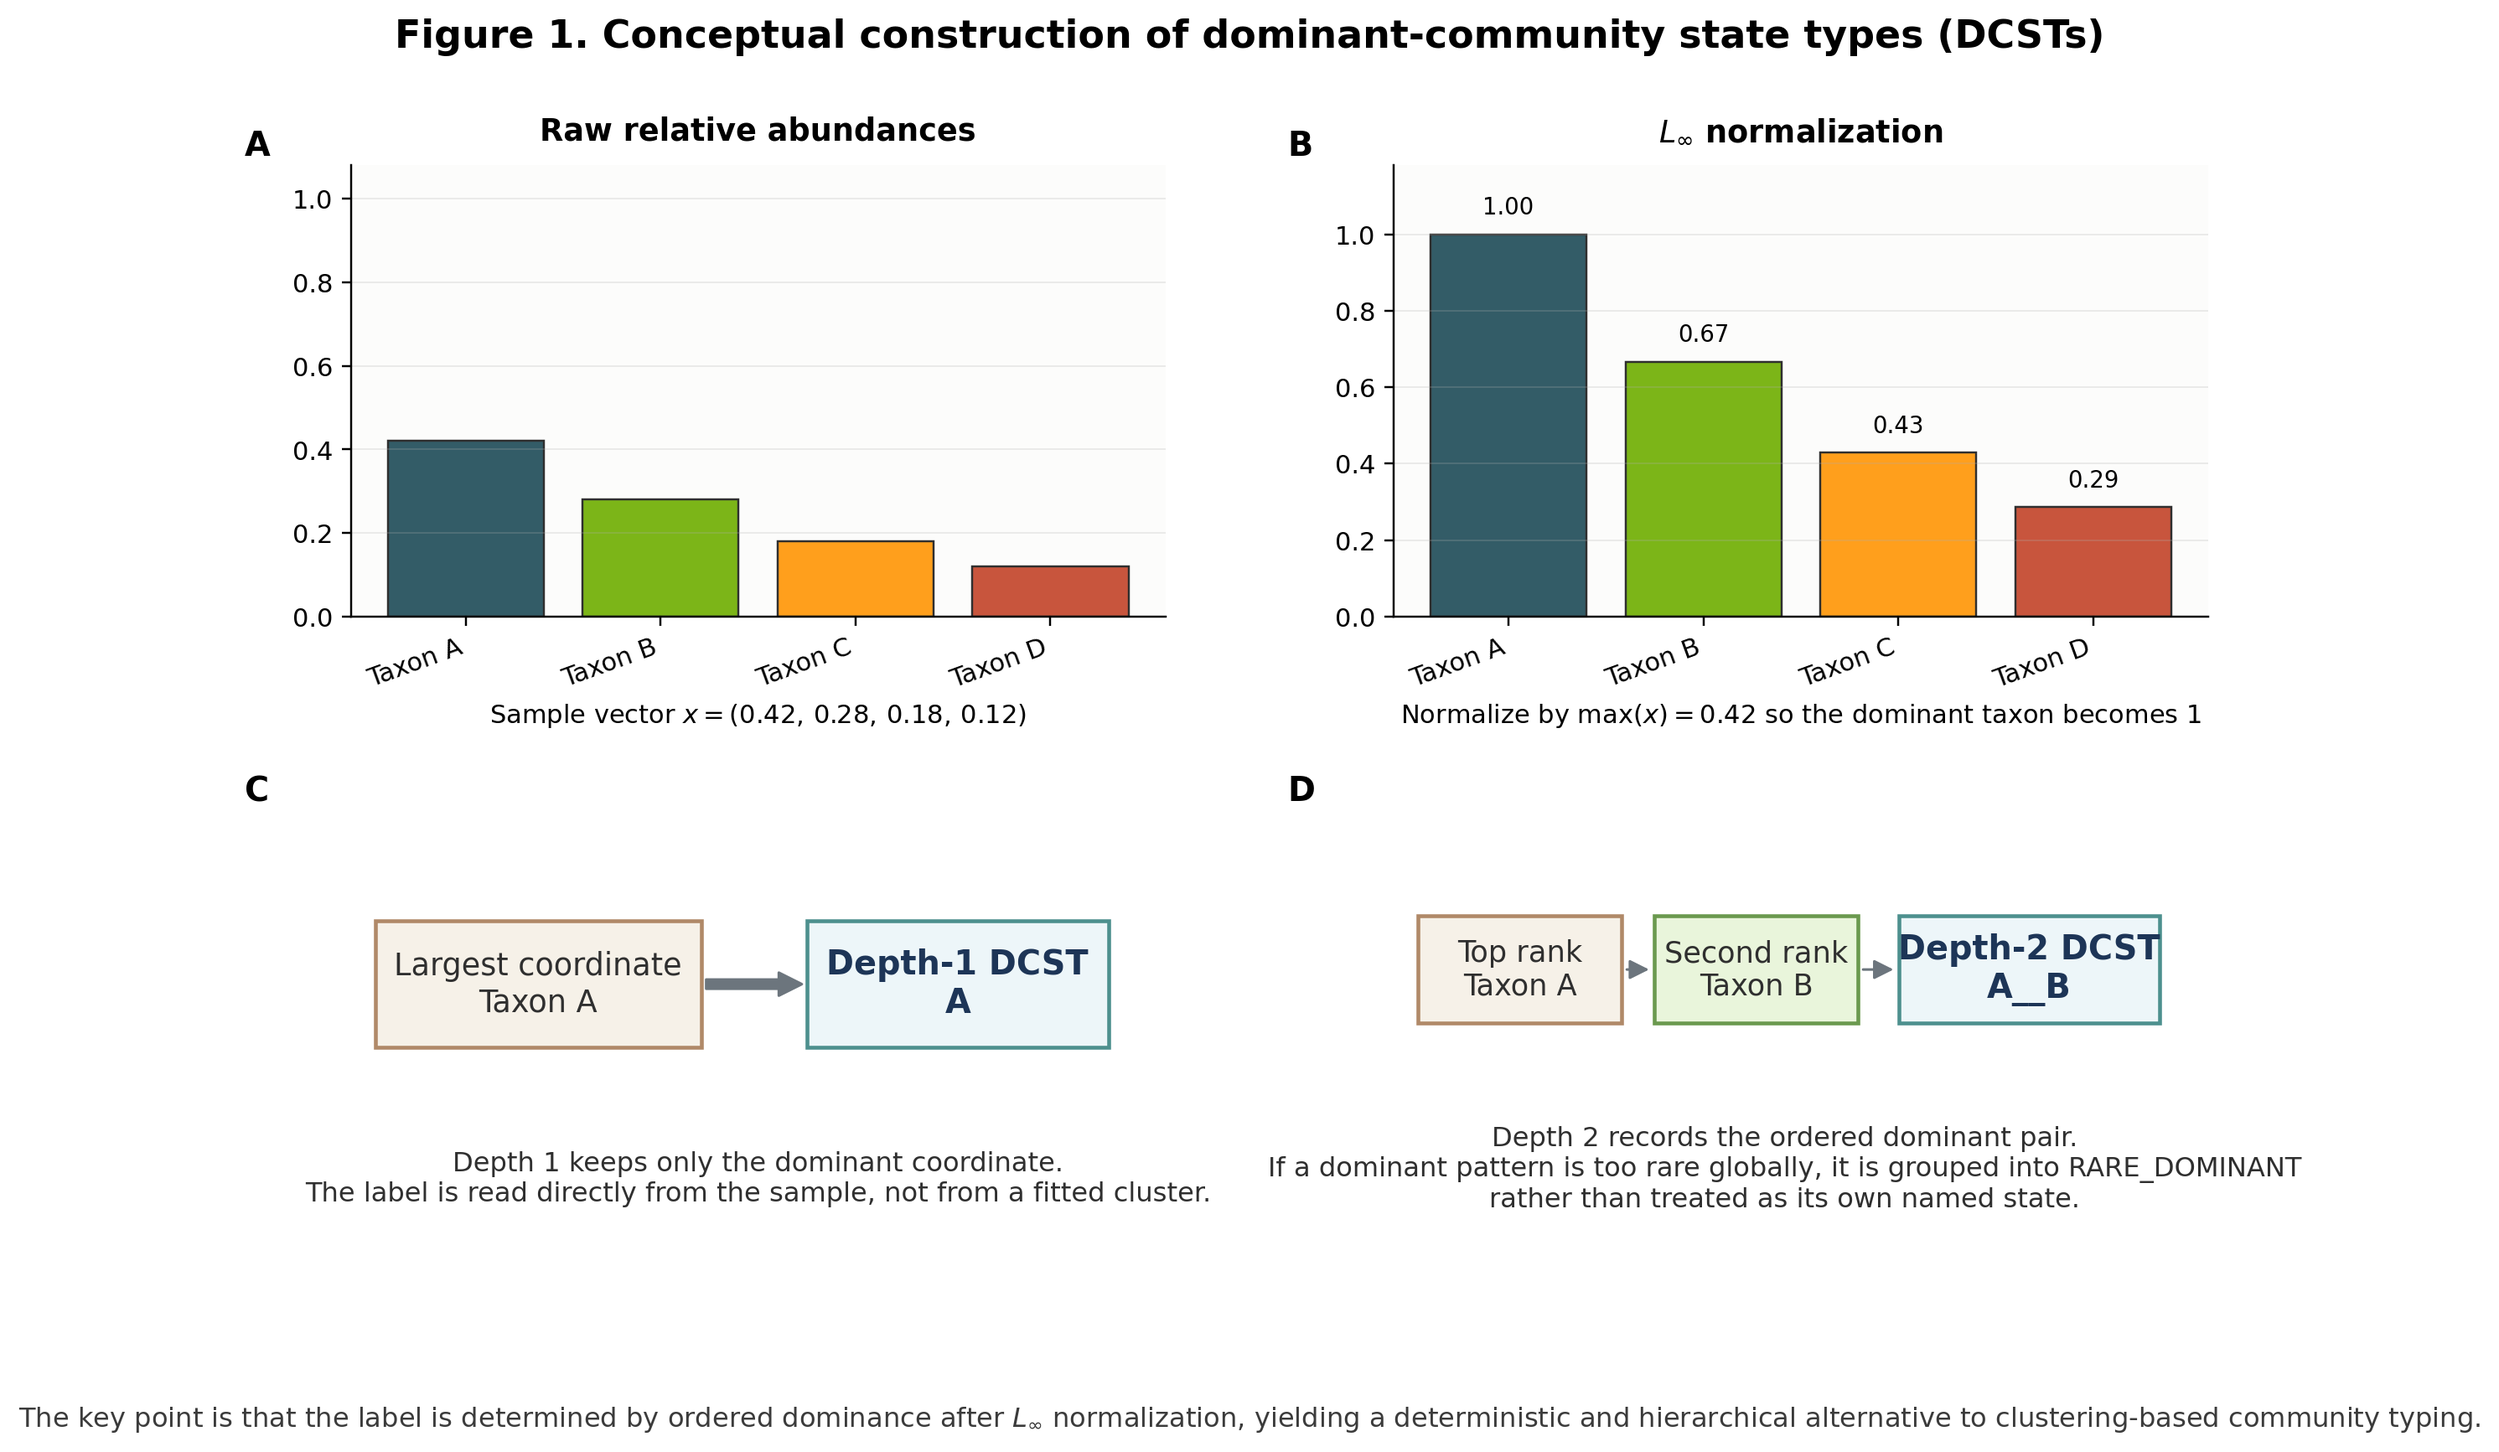
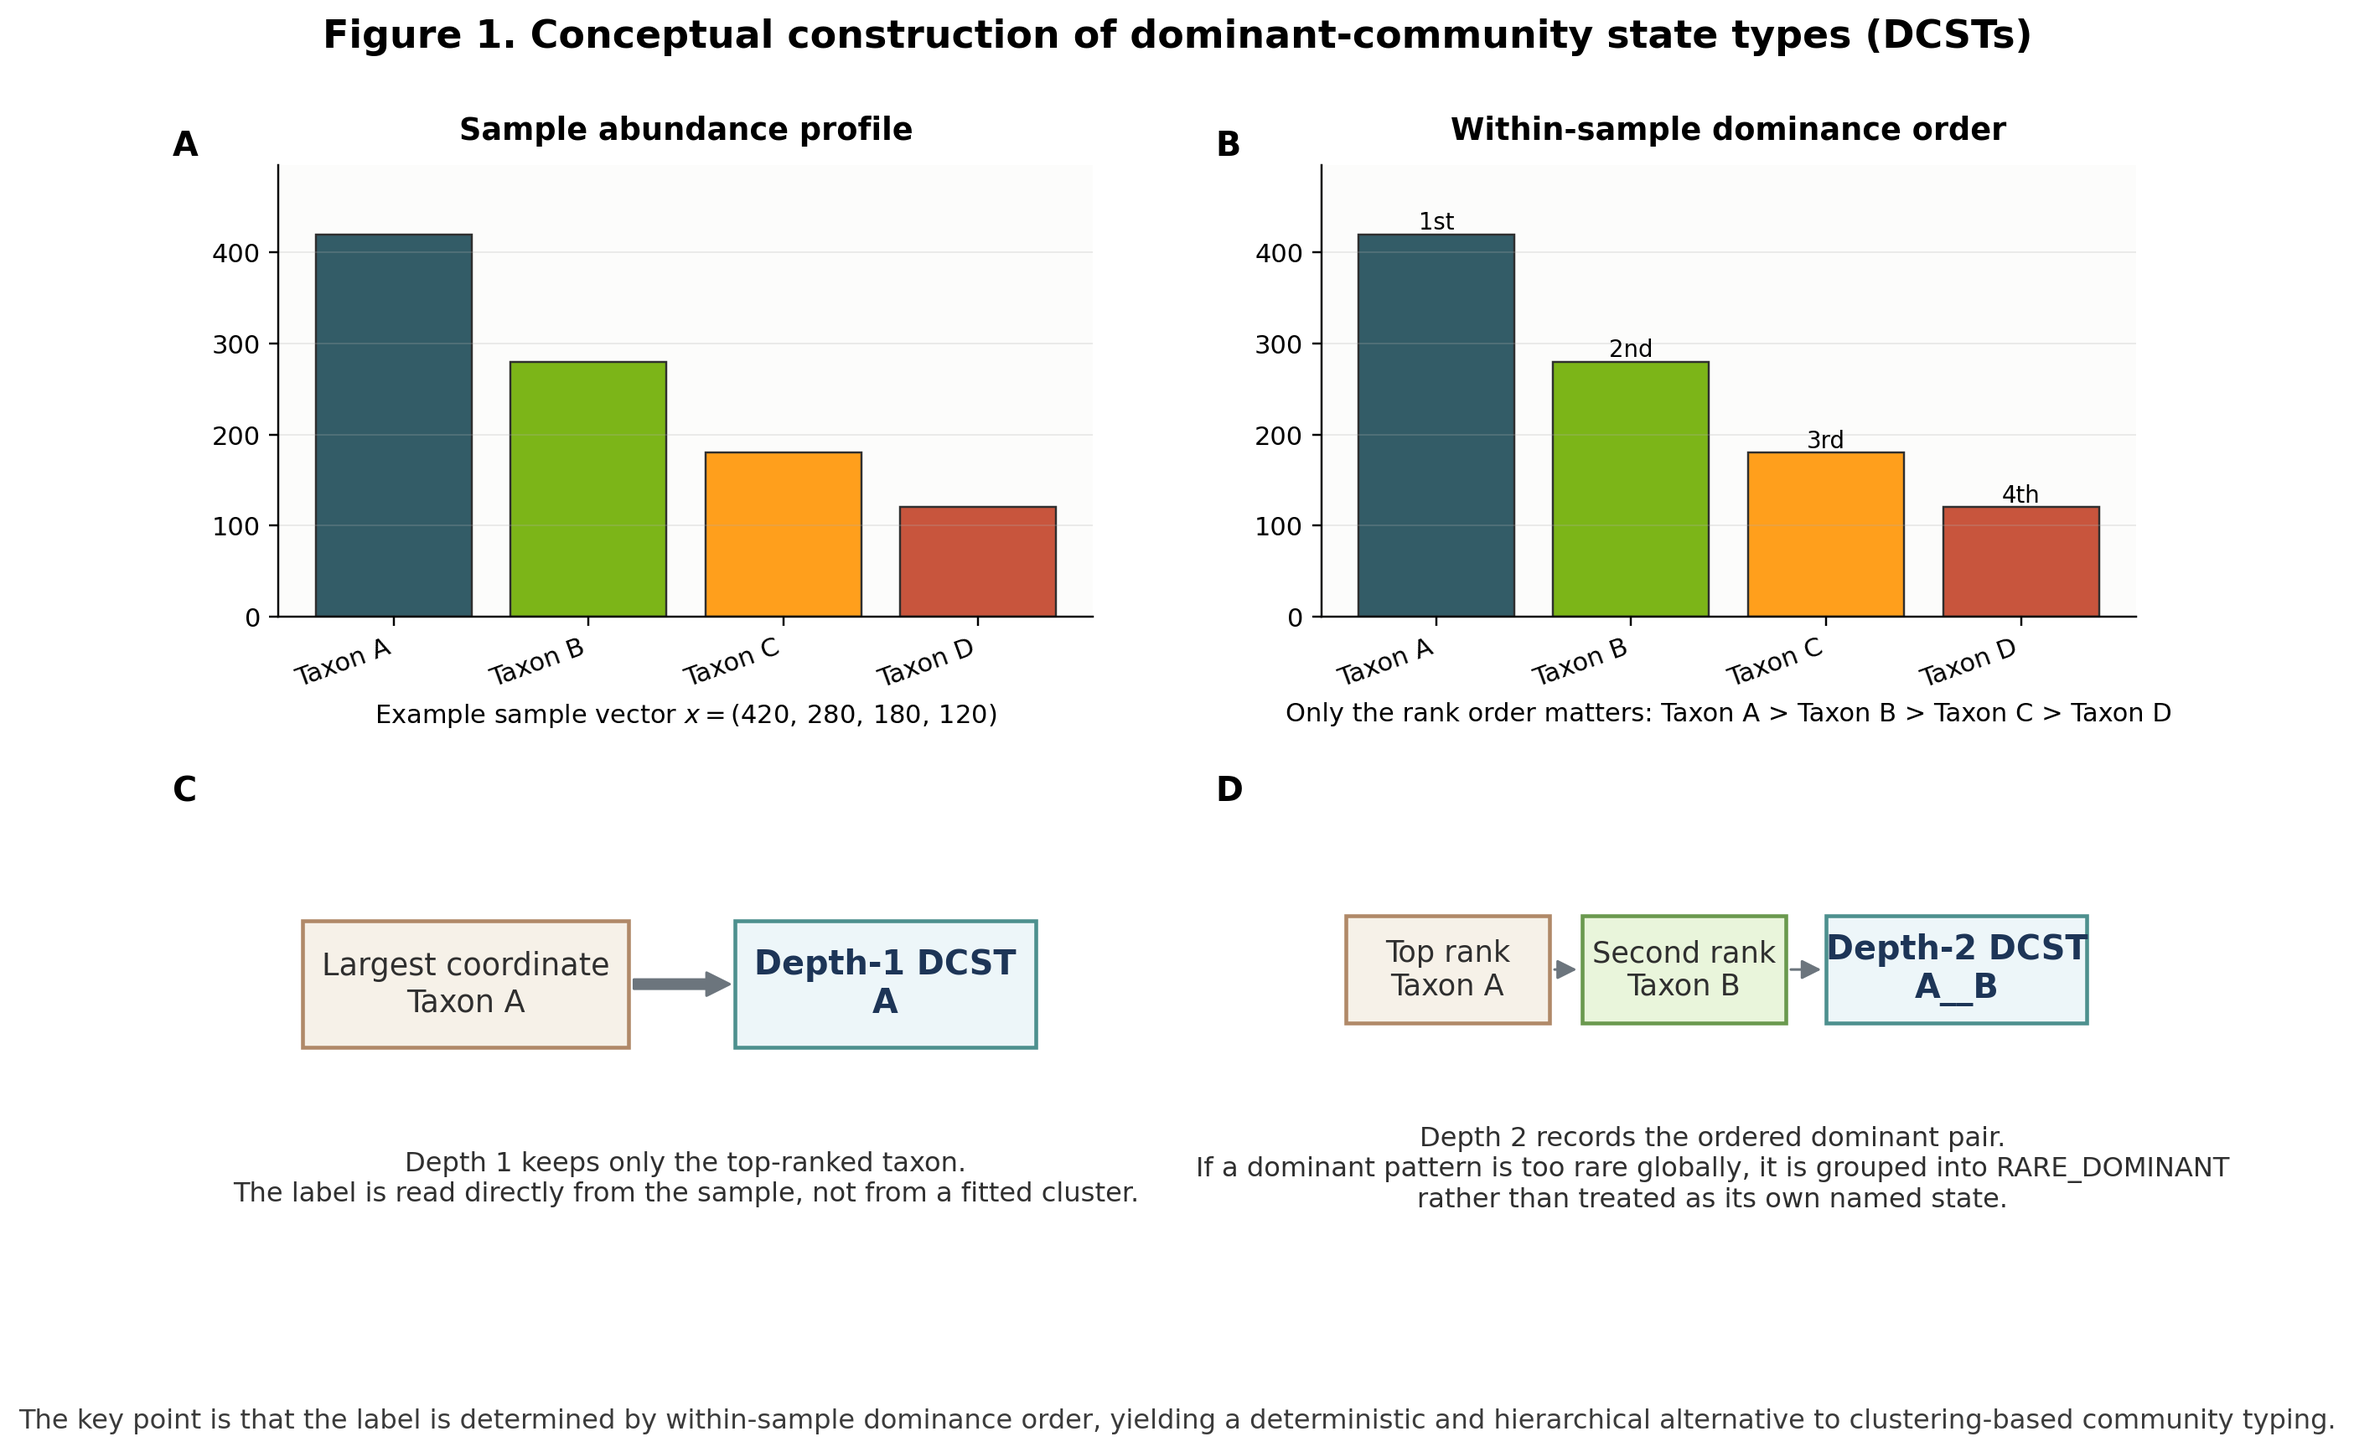
Clarify DCST rank-based construction

diff --git a/dev/build_dcst_concept_figure.py b/dev/build_dcst_concept_figure.py
@@ -48,8 +48,7 @@ def main():
         }
     )
 
-    raw = np.array([0.42, 0.28, 0.18, 0.12])
-    normalized = raw / raw.max()
+    raw = np.array([420, 280, 180, 120])
     colors = ["#335c67", "#7cb518", "#ff9f1c", "#c8553d"]
 
     fig = plt.figure(figsize=(13, 8))
@@ -60,19 +59,19 @@ def main():
         ax1,
         raw,
         colors,
-        "Raw relative abundances",
-        r"Sample vector $x = (0.42,\, 0.28,\, 0.18,\, 0.12)$",
+        "Sample abundance profile",
+        r"Example sample vector $x = (420,\, 280,\, 180,\, 120)$",
     )
     add_panel_label(ax1, "A")
 
     ax2 = fig.add_subplot(gs[0, 1])
     draw_bars(
         ax2,
-        normalized,
+        raw,
         colors,
-        r"$L_\infty$ normalization",
-        r"Normalize by $\max(x)=0.42$ so the dominant taxon becomes $1$",
-        annotate=[(0, "1.00"), (1, "0.67"), (2, "0.43"), (3, "0.29")],
+        "Within-sample dominance order",
+        "Only the rank order matters: Taxon A > Taxon B > Taxon C > Taxon D",
+        annotate=[(0, "1st"), (1, "2nd"), (2, "3rd"), (3, "4th")],
     )
     add_panel_label(ax2, "B")
 
@@ -94,7 +93,7 @@ def main():
     ax3.text(
         0.5,
         0.25,
-        "Depth 1 keeps only the dominant coordinate.\nThe label is read directly from the sample, not from a fitted cluster.",
+        "Depth 1 keeps only the top-ranked taxon.\nThe label is read directly from the sample, not from a fitted cluster.",
         ha="center",
         va="center",
         fontsize=10.5,
@@ -133,7 +132,7 @@ def main():
     fig.text(
         0.5,
         0.02,
-        "The key point is that the label is determined by ordered dominance after $L_\\infty$ normalization, yielding a deterministic and hierarchical alternative to clustering-based community typing.",
+        "The key point is that the label is determined by within-sample dominance order, yielding a deterministic and hierarchical alternative to clustering-based community typing.",
         ha="center",
         va="bottom",
         fontsize=10.5,

diff --git a/dev/build_full_cohort_landscape_figure.py b/dev/build_full_cohort_landscape_figure.py
@@ -129,7 +129,7 @@ def build_figure(labels: list[str], size_counts: list[int], dom_values: np.ndarr
     for val, label, col in [(q25, "Q1", "#4d908e"), (q50, "Median", "#1d3557"), (q75, "Q3", "#4d908e")]:
         ax2.axvline(val, color=col, linestyle=":", linewidth=1.3)
         ax2.text(val + 0.01, ax2.get_ylim()[1] * 0.82, label, color=col, fontsize=8.5)
-    ax2.set_title("B. Dominance strength before $L_\\infty$ normalization", loc="left", fontweight="bold")
+    ax2.set_title("B. Empirical dominance strength in the AGP cohort", loc="left", fontweight="bold")
     ax2.set_xlabel("Relative abundance of dominant species")
     ax2.set_ylabel("Samples")
     ax2.grid(axis="y", alpha=0.25, linewidth=0.6)
@@ -155,7 +155,7 @@ def build_figure(labels: list[str], size_counts: list[int], dom_values: np.ndarr
     fig.text(
         0.5,
         0.015,
-        "Panel A shows the leading depth-1 DCSTs after truncation at n0 = 50. Panel B shows the empirical dominance strength, defined as the relative abundance of the most abundant taxon before $L_\\infty$ normalization.",
+        "Panel A shows the leading depth-1 DCSTs after truncation at n0 = 50. Panel B shows the empirical dominance strength, defined as the relative abundance of the most abundant taxon in each sample.",
         ha="center",
         va="bottom",
         fontsize=10.2,

diff --git a/dev/gut_application_paper_draft.md b/dev/gut_application_paper_draft.md
@@ -34,8 +34,8 @@ header-includes:
 Gut microbiome community typing is often built around clustering, making the
 resulting labels sensitive to modeling choices and harder to interpret at the
 level of a single sample. We study a deterministic alternative based on
-$L_\infty$ normalization and dominant-community state types (DCSTs), in which
-each sample is assigned by rank structure rather than by cluster membership.
+dominant-community state types (DCSTs), in which each sample is assigned by
+within-sample taxon ranking rather than by cluster membership.
 Using the American Gut Project stool cohort, we analyzed 34,711 samples
 available in the SILVA species-level table and retained 30,290 after quality
 control, yielding 274 taxa for downstream analysis. At depth 1, the cohort
@@ -66,39 +66,44 @@ understand what a given sample label means and whether two analyses can be
 compared without a hidden dependence on tuning decisions.
 
 This paper studies a simpler route. A dominant-community state type (DCST) is
-defined from the rank structure of a sample after $L_\infty$ normalization. At
-depth 1, the dominant taxon determines the top-level state. At depth 2, the
-second-ranked taxon refines that state into an ordered subtype. The resulting
-construction is deterministic, hierarchical, and local to the sample: the label
-is read directly from the ordered dominant coordinates rather than inferred from
-a fitted global partition.
+defined by the within-sample ordering of taxa. At depth 1, the dominant taxon
+determines the top-level state. At depth 2, the second-ranked taxon refines
+that state into an ordered subtype. Because the construction depends only on
+rank order, it is unchanged by sample-wide rescaling and does not require a
+particular $L_p$ normalization. The resulting construction is deterministic,
+hierarchical, and local to the sample: the label is read directly from the
+ordered dominant coordinates rather than inferred from a fitted global
+partition.
 
 The gut is a particularly good stress test for this idea. In the vaginal
 microbiome, strong dominance can be common and even canonical. In the gut,
 strong dominance is less universal and often appears in dysbiotic or otherwise
 unusual settings. That makes the gut harder to type cleanly, but also more
-interesting scientifically. Literature on IBS, IBD, autoimmune disease, and
-cardiometabolic conditions suggests that shifts in dominant taxa or dominant
-taxon pairs can mark altered ecological states [@Tap2017_IBS;
-@Pittayanon2019_IBS; @LloydPrice2019_IBD; @Gevers2014_CD;
-@Scher2013_Prevotella_RA; @Vatanen2018_T1D; @Wang2011_TMAO; @Tang2013_TMAO].
+interesting. Literature on IBS, IBD, autoimmune disease, and cardiometabolic
+conditions suggests that shifts in dominant taxa or dominant taxon pairs can
+mark altered ecological states [@Tap2017_IBS; @Pittayanon2019_IBS;
+@LloydPrice2019_IBD; @Gevers2014_CD; @Scher2013_Prevotella_RA; @Vatanen2018_T1D;
+@Wang2011_TMAO; @Tang2013_TMAO].
 
 Our aim is not to argue that dominant taxa alone explain disease biology. The
-claim is narrower: a clustering-free dominance framework can recover structured
-gut community states at scale, support disease-wise interpretation without
-collapsing every phenotype into one pooled signal, and remain informative under
-covariate adjustment, sensitivity analysis, taxonomy change, and external
-validation.
+claim is narrower: recurring dominance patterns can be identified
+deterministically across a cohort of this size without fitting clusters; the
+resulting DCST labels can then be analyzed phenotype by phenotype rather than
+only through one pooled disease-versus-not-disease contrast; and several of the
+strongest DCST-phenotype associations remain visible after covariate
+adjustment, contaminant-aware sensitivity analysis, taxonomy change, and
+external validation.
 
 > **What is a DCST?**
 >
-> A DCST is the ordered dominant part of a sample after $L_\infty$
-> normalization. At depth 1, only the largest component matters. At depth 2, the
-> second-largest component refines the parent class. Samples that do not meet
-> the prevalence threshold for a named dominant type are grouped into
-> `RARE_DOMINANT`.
+> A DCST is defined by the ordered dominant taxa in a sample. At depth 1, only
+> the largest component matters. At depth 2, the second-largest component
+> refines the parent class. Because only the within-sample ordering matters, the
+> same DCST is obtained from read counts, proportions, or any sample-wide
+> $L_p$ normalization. Samples that do not meet the prevalence threshold for a
+> named dominant type are grouped into `RARE_DOMINANT`.
 
-![Conceptual schematic of the DCST construction. A sample is first normalized by its largest component, then assigned a depth-1 state by the top-ranked taxon and a depth-2 state by the ordered dominant pair. Rare dominant patterns below the prevalence threshold are grouped into `RARE_DOMINANT`.](/Users/pgajer/current_projects/linf/dev/FIGURE_1_dcst_conceptual_schematic.png){ width=92% }
+![Conceptual schematic of the DCST construction. A sample abundance profile induces a within-sample taxon ranking, which yields a depth-1 state from the dominant taxon and a depth-2 state from the ordered dominant pair. Rare dominant patterns below the prevalence threshold are grouped into `RARE_DOMINANT`.](/Users/pgajer/current_projects/linf/dev/FIGURE_1_dcst_conceptual_schematic.png){ width=92% }
 
 # 2. Methods
 
@@ -114,13 +119,14 @@ for adjusted modeling.
 
 ## 2.2 DCST construction
 
-Each sample was normalized by its largest component, so the dominant taxon took
-value 1 and the remaining coordinates were interpreted relative to that
-reference. A depth-1 DCST was defined by the dominant taxon. A depth-2 DCST was
-defined by the ordered pair consisting of the dominant and second-ranked taxa.
-To keep the resulting state space interpretable, only dominant patterns meeting
-a minimum prevalence threshold $n_0$ were promoted to named DCSTs; the rest were
-grouped into `RARE_DOMINANT`.
+A depth-1 DCST was defined by the dominant taxon. A depth-2 DCST was defined by
+the ordered pair consisting of the dominant and second-ranked taxa. This
+construction depends only on within-sample rank order, so the resulting label
+is unchanged by moving between raw counts, relative abundances, or any
+sample-wide $L_p$ normalization. To keep the resulting state space
+interpretable, only dominant patterns meeting a minimum prevalence threshold
+$n_0$ were promoted to named DCSTs; the rest were grouped into
+`RARE_DOMINANT`.
 
 ## 2.3 Association analysis
 
@@ -195,7 +201,7 @@ picture is concentrated rather than diffusely fragmented (Table 1).
 
 \endgroup
 
-![Full-cohort AGP landscape. Panel A shows the leading depth-1 DCSTs after truncation at n0 = 50, while Panel B shows the empirical dominance strength before $L_\infty$ normalization.](/Users/pgajer/current_projects/linf/dev/FIGURE_2_full_cohort_landscape.png){ width=92% }
+![Full-cohort AGP landscape. Panel A shows the leading depth-1 DCSTs after truncation at n0 = 50, while Panel B shows the empirical dominance strength, defined as the relative abundance of the dominant species in each sample.](/Users/pgajer/current_projects/linf/dev/FIGURE_2_full_cohort_landscape.png){ width=92% }
 
 ![Adjusted depth-1 association overview. Panel A shows all taxa that survive adjustment at least once across the disease screen, with colored cells annotated by adjusted odds ratio and blank cells indicating no surviving adjusted signal. Panel B shows the strongest adjusted associations with 95% confidence intervals.](/Users/pgajer/current_projects/linf/dev/FIGURE_3_adjusted_association_overview.png){ width=98% }
 
